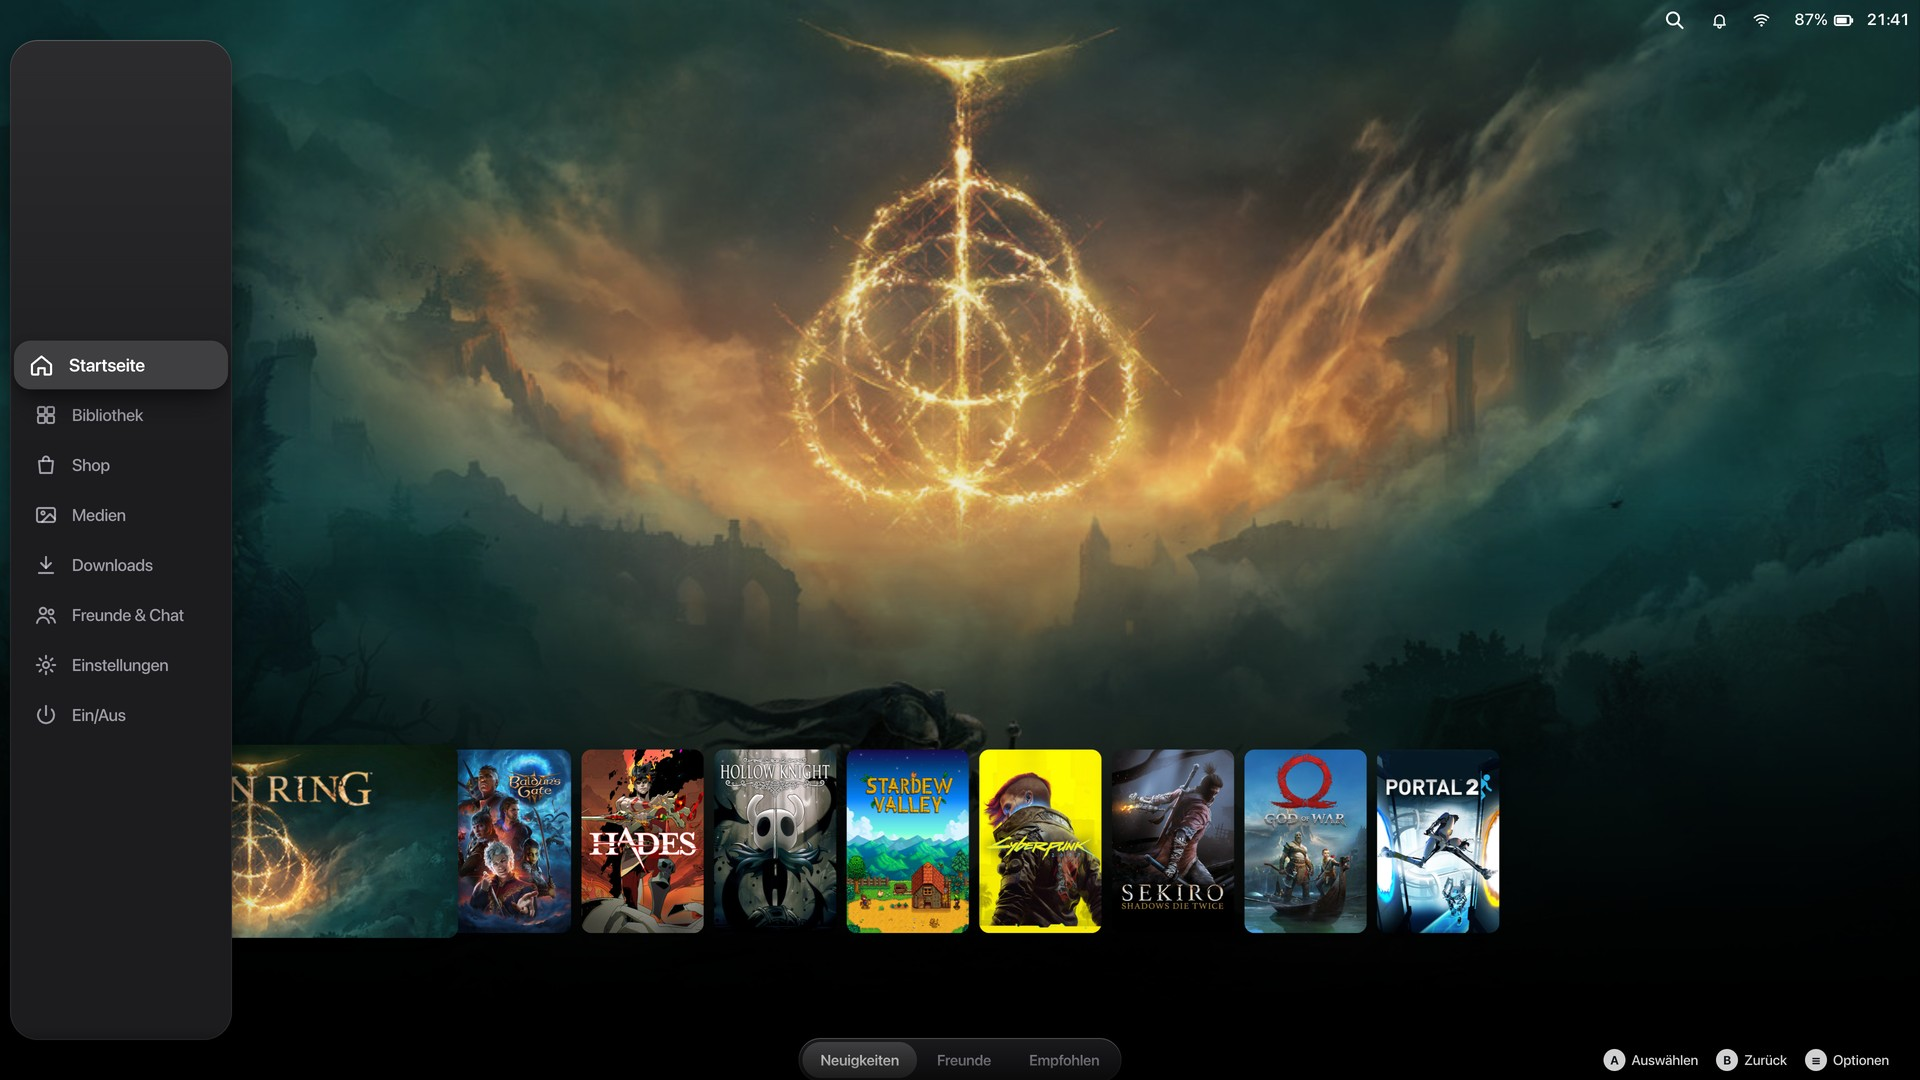
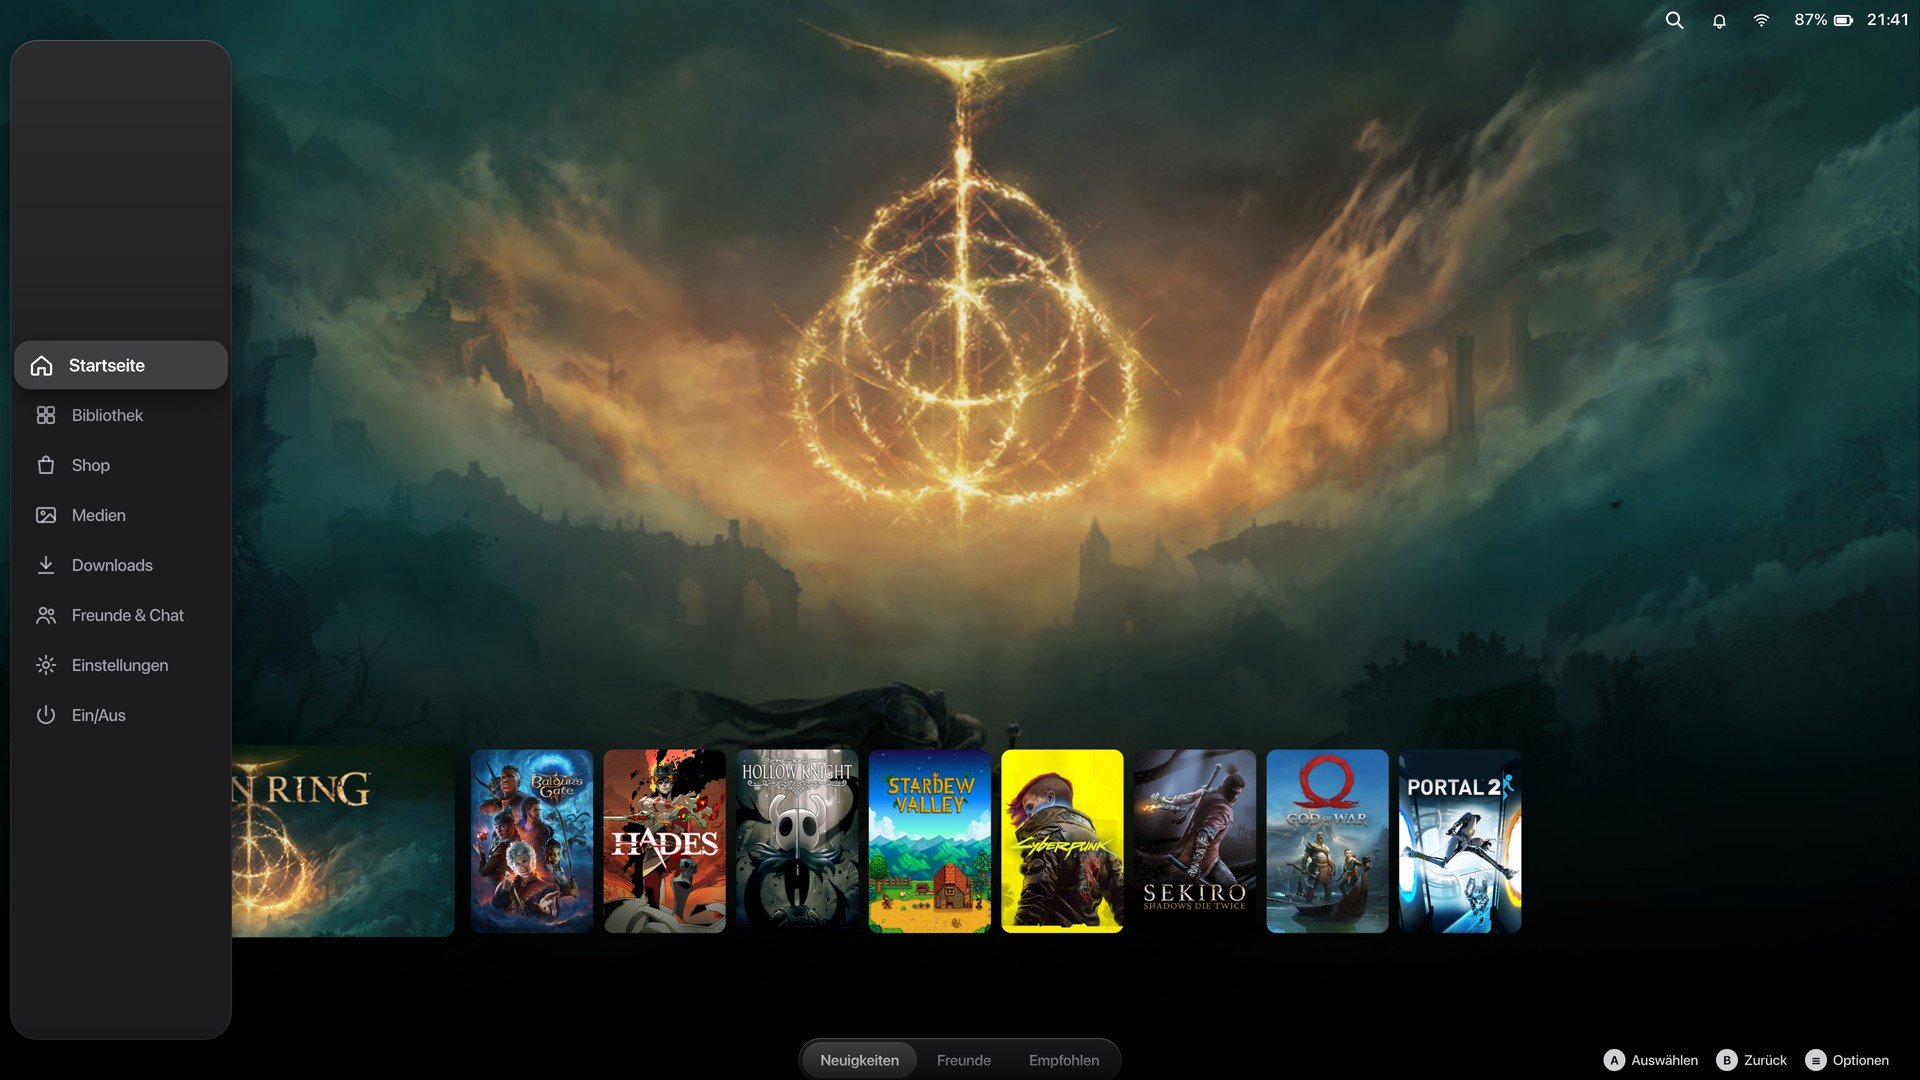
Fix DeckThemes validation, wide tile overlap, new description
- Remove font-optical-sizing: the older W3C validator on DeckThemes
  rejects it; the lint now flags it.
- Tiles next to the wide first home tile move aside while it is
  focused instead of being covered.
- New store description in theme.json; screenshots re-rendered.

Changed region(s): [[0.2188, 0.6722, 0.8125, 0.8861], [0.125, 0.7028, 0.1875, 0.825]]

diff --git a/tvOS-Deck/css/home.css b/tvOS-Deck/css/home.css
@@ -68,6 +68,17 @@
   animation: var(--tvdeck-parallax-wide) !important;
 }
 
+/* Beim Wachsen würde sie die nächsten Kacheln überdecken: die rücken so weit
+   nach rechts, wie sie größer wird (0 bei Fokuseffekt „Off“). */
+.basicgamecarousel_BasicGameCarouselItem {
+  transition: transform var(--tvdeck-dur) var(--tvdeck-spring);
+}
+
+.basicgamecarousel_BasicGameCarouselItem:has(.basicgamecarousel_Featured .Focusable:focus) ~ .basicgamecarousel_BasicGameCarouselItem,
+.basicgamecarousel_BasicGameCarouselItem:has(.basicgamecarousel_Featured .gpfocus) ~ .basicgamecarousel_BasicGameCarouselItem {
+  transform: translateX(calc((var(--tvdeck-card-scale-wide) - 1) * 520px));
+}
+
 .LowPerfMode .appportrait_LibraryItemBox.appportrait_LibraryItemBox.gpfocus,
 .LowPerfMode .appportrait_LibraryItemBox.appportrait_LibraryItemBox.gpfocus::after {
   animation: none !important;

diff --git a/tvOS-Deck/css/font.css b/tvOS-Deck/css/font.css
@@ -19,7 +19,6 @@ html,
 body,
 body * {
   font-family: var(--tvdeck-font) !important;
-  font-optical-sizing: auto;
   -webkit-font-smoothing: antialiased;
   text-rendering: optimizeLegibility;
 }

diff --git a/tools/package_theme.py b/tools/package_theme.py
@@ -28,6 +28,9 @@ VALID_TARGETS = ["System-Wide", "Keyboard", "Home", "Background", "Library", "St
                  "Media", "Downloads", "Settings", "Lock Screen", "Tweak", "Other", "Snippet", "Desktop",
                  "Desktop-Library", "Desktop-Tweak", "Desktop-Friends", "Desktop-Store"]
 MAX_SIZE = 10 * 1024 * 1024
+# DeckThemes prüft mit einem älteren W3C-Validator (Server-Build 2025-09) als --validate;
+# diese Eigenschaften kennt er noch nicht und lehnt die Einreichung ab
+UNKNOWN_TO_DECKTHEMES = re.compile(r"(?<![\w-])(font-optical-sizing)\s*:")
 # CSS Loader legt Einstellungen im Theme-Ordner ab – nie mit ausliefern
 EXCLUDE = re.compile(r"(^|/)(\.DS_Store|config_[A-Z]+\.json|__pycache__)(/|$)")
 
@@ -83,7 +86,10 @@ def lint() -> dict:
     for p, rel in theme_files():
         if rel.endswith(".css"):
             need(rel in referenced, f"'{rel}' wird in theme.json nicht verwendet")
-            need("\\" not in p.read_text(encoding="utf-8"), f"'{rel}': Backslash (CSS Loader verdoppelt ihn)")
+            text = p.read_text(encoding="utf-8")
+            need("\\" not in text, f"'{rel}': Backslash (CSS Loader verdoppelt ihn)")
+            for m in UNKNOWN_TO_DECKTHEMES.finditer(text):
+                need(False, f"'{rel}': '{m.group(1)}' lehnt der DeckThemes-Validator ab")
 
     size = sum(p.stat().st_size for p, _ in theme_files())
     need(size < MAX_SIZE, f"Theme ist {size / 1e6:.1f} MB (Limit 10 MB)")

diff --git a/docs/VEROEFFENTLICHEN.md b/docs/VEROEFFENTLICHEN.md
@@ -56,6 +56,13 @@ Die Action *Release* baut daraus zwei ZIPs und hängt sie an das GitHub-Release:
    `06-settings.jpg` (je 1920 × 1080, unter 300 KB).
 5. Absenden. Ein Moderator prüft das Theme, danach erscheint es in CSS Loader unter *Find themes*.
 
+In der Liste deiner Einreichungen steht oben **„New Theme“**. Das ist die Art der Einreichung (neues Theme statt
+„Theme Update“), nicht der Name. Der Name kommt aus `theme.json`.
+
+**Validator-Fehler bei der Einreichung:** DeckThemes prüft mit einer älteren Version des W3C-Validators als
+`--validate`. Eigenschaften, die er nicht kennt, trägst du in `UNKNOWN_TO_DECKTHEMES` in
+`tools/package_theme.py` ein. Danach meldet schon `python3 tools/package_theme.py` den Fehler.
+
 **Echte Screenshots sind besser.** Die Bilder in `images/` stammen aus der Web-Vorschau mit Steams echtem CSS.
 Sie zeigen aber Beispiel-Spielgrafiken aus dem Steam-Shop. Mache auf der Steam Machine eigene Aufnahmen mit
 **Steam-Taste + R1** und nimm sie für die Einreichung, sobald das Theme dort so aussieht wie gewünscht.

diff --git a/CHANGELOG.md b/CHANGELOG.md
@@ -3,7 +3,9 @@
 ## 1.1.0 – 2026-10-25
 
 - **Steam Machine / 16:9 / 4K:** checked at 1920 × 1080 logical pixels (4K at 200 % scaling); hairline separators
-  on high-DPI screens; wide first home tile now zooms less and tilts softer so it no longer covers its neighbour.
+  on high-DPI screens; wide first home tile zooms less and tilts softer, and the tiles next to it move aside
+  while it is focused instead of being covered.
+- Removed `font-optical-sizing` (the validator on DeckThemes does not know it yet; it was the default anyway).
 - Steam menu, Quick Access and toasts are now fully opaque glass (overlay windows cannot blur, text behind used
   to shine through).
 - Quick Access: focus tile no longer touches the panel edge.
